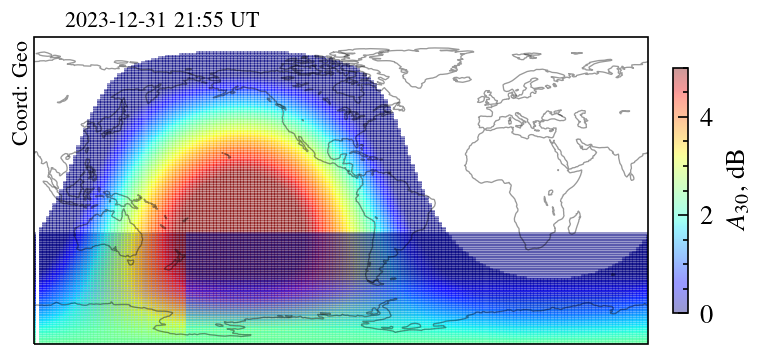
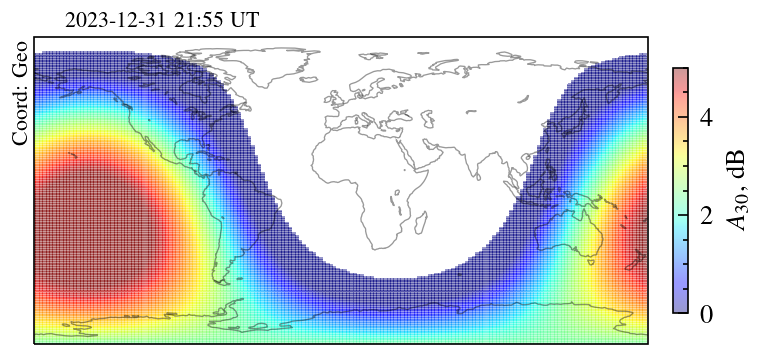
Updated js

diff --git a/py/drap.py b/py/drap.py
@@ -68,7 +68,7 @@ class DRAP(object):
 
     def draw_image(self, date, lat_grd, lon_grd, absp):
         self.fig = plt.figure(dpi=240)
-        proj = cartopy.crs.PlateCarree(-90.0)
+        proj = cartopy.crs.PlateCarree()
         #proj = cartopy.crs.Stereographic(central_longitude=-90.0, central_latitude=45.0)
         ax = self.fig.add_subplot(
             111,
